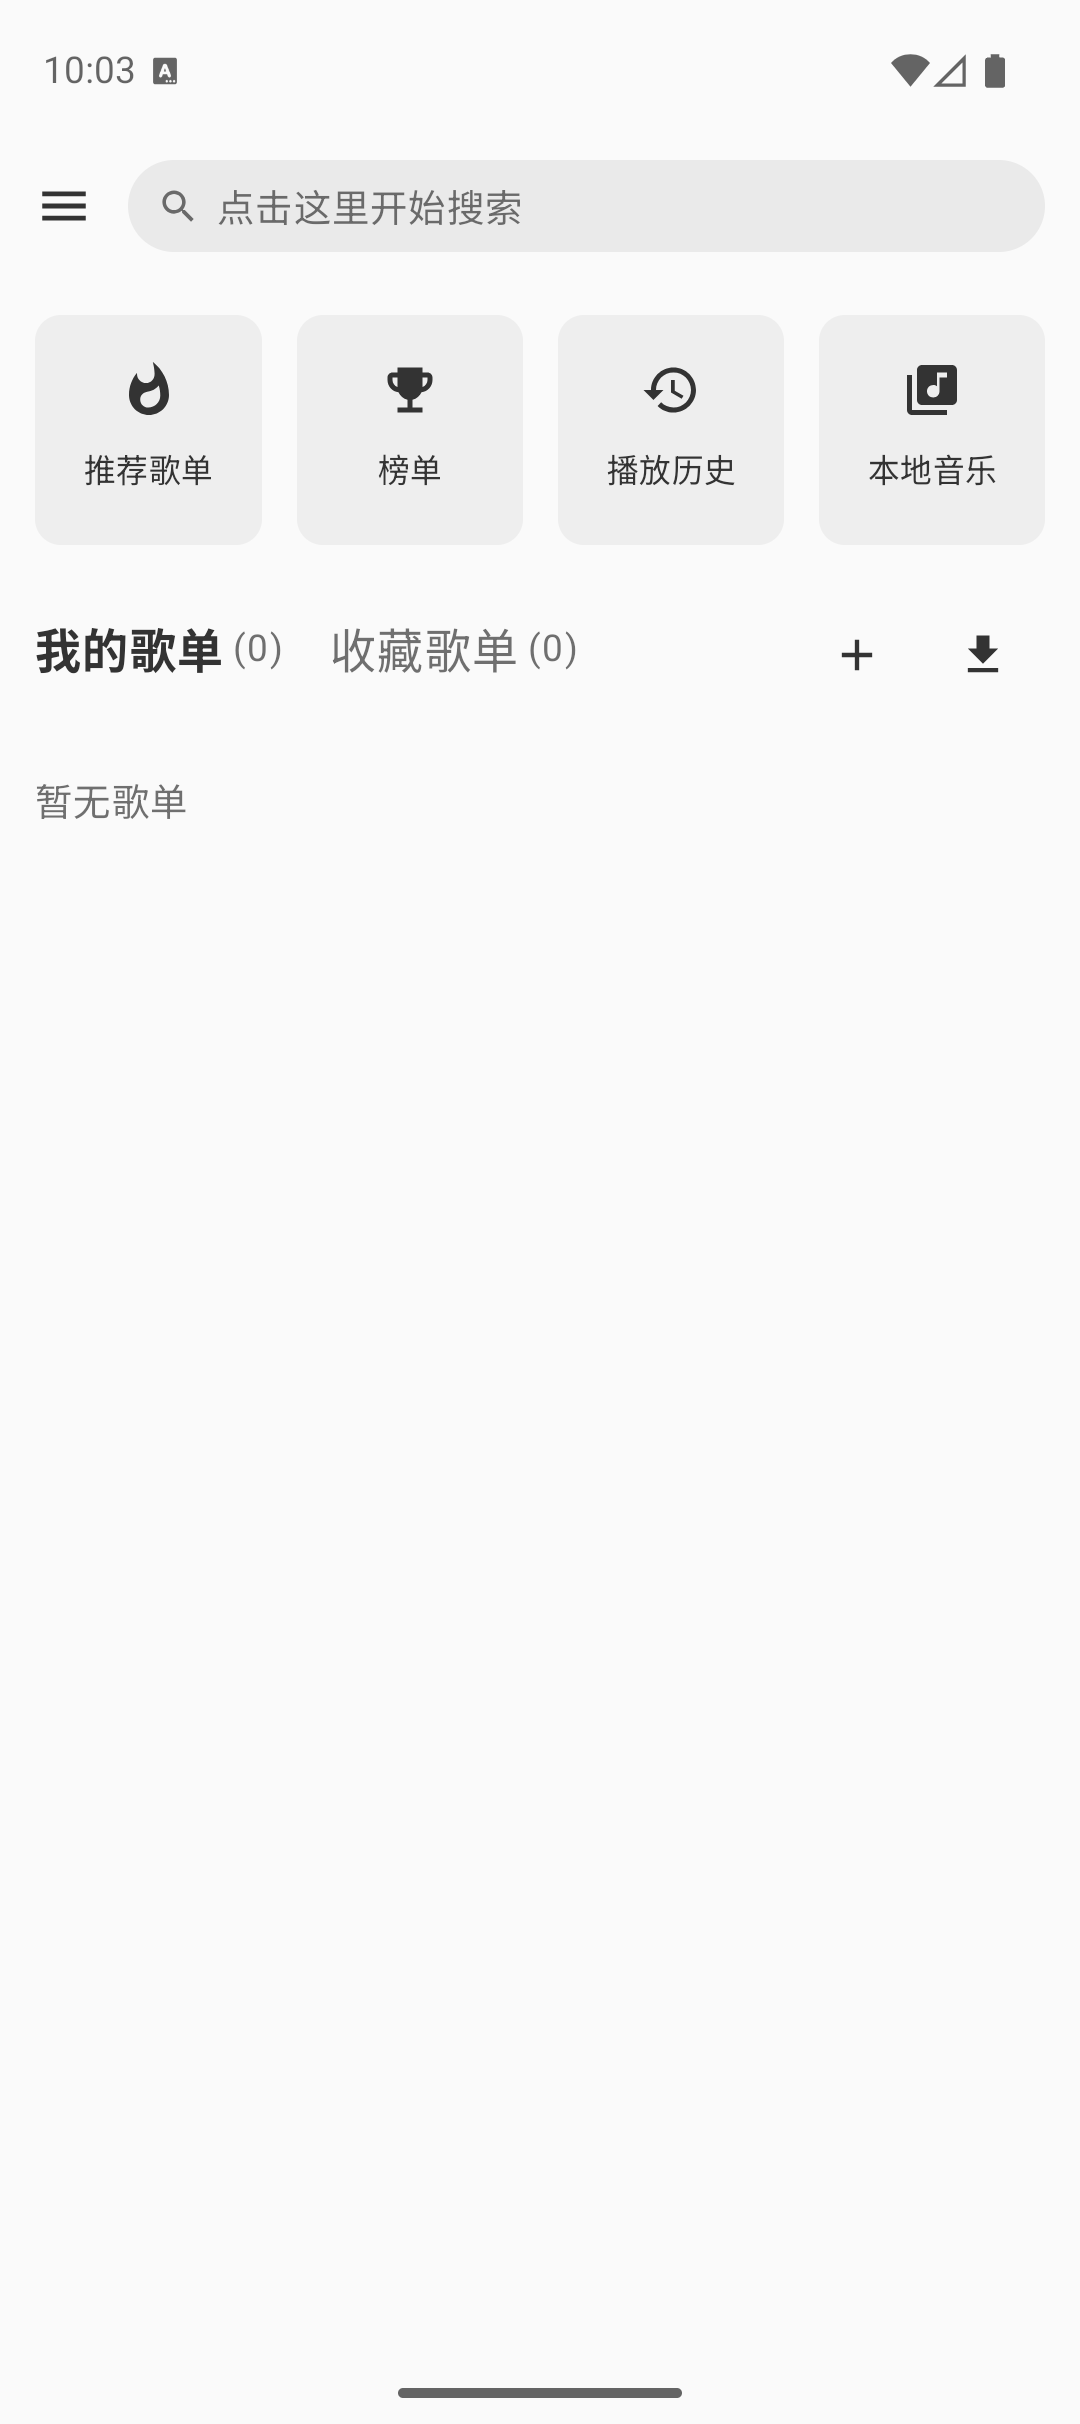
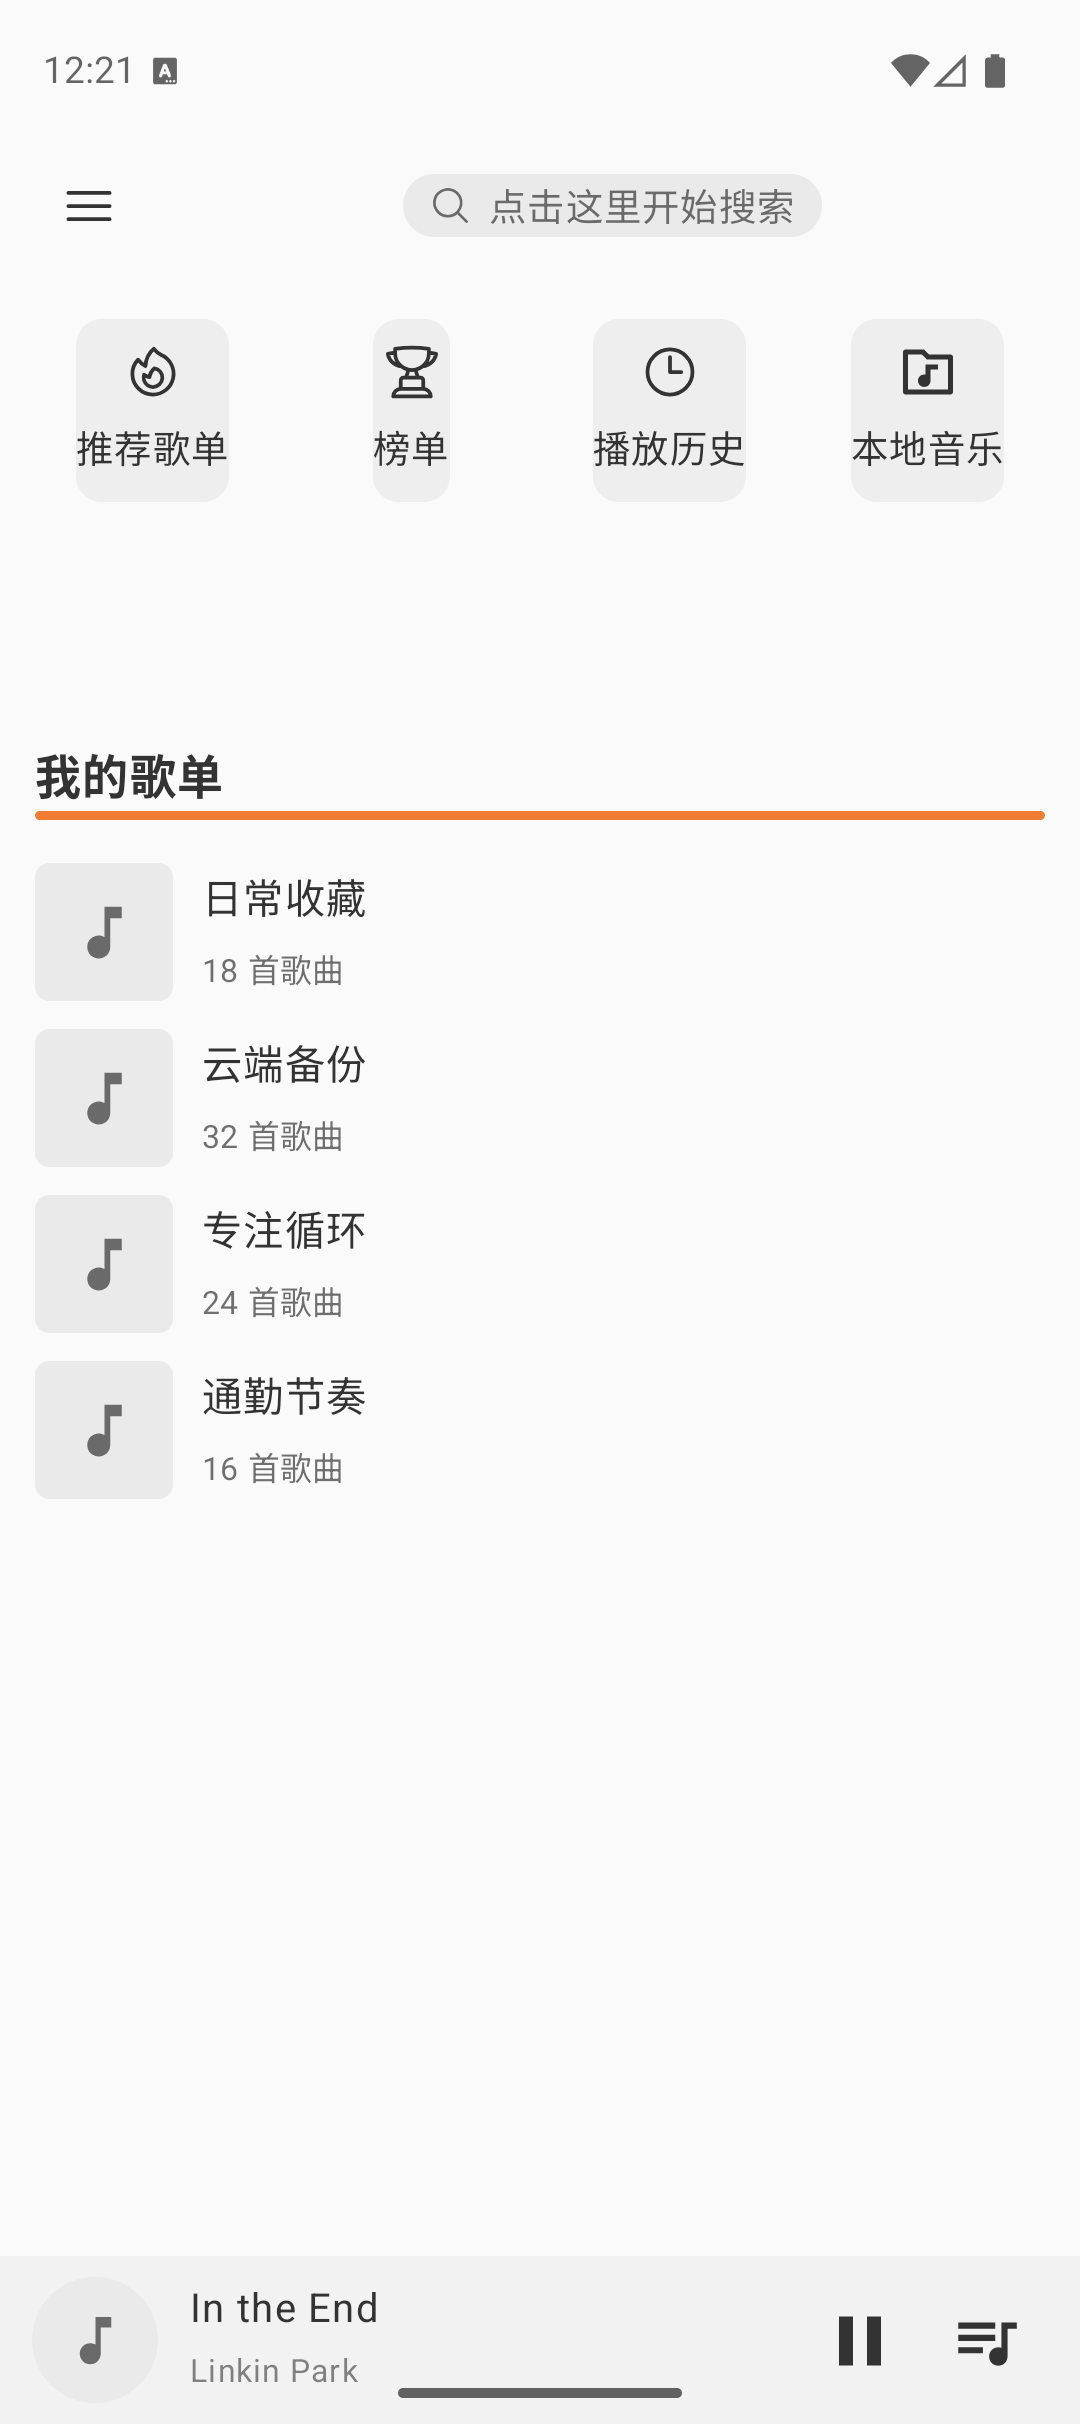
feat(app): host homepage mock mini player

diff --git a/app/src/main/java/com/zili/android/musicfreeandroid/MainActivity.kt b/app/src/main/java/com/zili/android/musicfreeandroid/MainActivity.kt
@@ -13,7 +13,10 @@ import androidx.compose.foundation.layout.safeDrawing
 import androidx.compose.foundation.layout.windowInsetsPadding
 import androidx.compose.material3.Scaffold
 import androidx.compose.runtime.getValue
+import androidx.compose.runtime.mutableStateOf
 import androidx.compose.runtime.remember
+import androidx.compose.runtime.saveable.rememberSaveable
+import androidx.compose.runtime.setValue
 import androidx.compose.ui.Modifier
 import androidx.navigation.compose.currentBackStackEntryAsState
 import androidx.navigation.compose.rememberNavController
@@ -21,6 +24,8 @@ import com.zili.android.musicfreeandroid.core.navigation.HomeRoute
 import com.zili.android.musicfreeandroid.core.navigation.PlayerRoute
 import com.zili.android.musicfreeandroid.core.theme.MusicFreeTheme
 import com.zili.android.musicfreeandroid.feature.playerui.component.MiniPlayer
+import com.zili.android.musicfreeandroid.feature.playerui.component.MiniPlayerContent
+import com.zili.android.musicfreeandroid.feature.playerui.component.MiniPlayerUiModel
 import com.zili.android.musicfreeandroid.navigation.AndroidHomeSystemActionHandler
 import com.zili.android.musicfreeandroid.navigation.AppNavHost
 import com.zili.android.musicfreeandroid.player.controller.PlayerController
@@ -48,10 +53,13 @@ class MainActivity : ComponentActivity() {
                 val currentRoute = currentBackStack?.destination?.route
                 val playerRouteName = PlayerRoute::class.simpleName.orEmpty()
                 val homeRouteName = HomeRoute::class.simpleName.orEmpty()
+                var isHomeMockPlaying by rememberSaveable { mutableStateOf(true) }
 
-                val showMiniPlayer = currentRoute != null &&
+                val isHomeRoute = currentRoute?.contains(homeRouteName) == true
+                val showRealMiniPlayer = currentRoute != null &&
+                    !isHomeRoute &&
                     !currentRoute.contains(playerRouteName)
-                val applyHomeTopSafeInset = currentRoute?.contains(homeRouteName) == true
+                val applyHomeTopSafeInset = isHomeRoute
 
                 Scaffold(
                     modifier = Modifier.fillMaxSize(),
@@ -59,12 +67,29 @@ class MainActivity : ComponentActivity() {
                         WindowInsetsSides.Horizontal + WindowInsetsSides.Bottom,
                     ),
                     bottomBar = {
-                        if (showMiniPlayer) {
-                            MiniPlayer(
-                                onNavigateToPlayer = {
-                                    navController.navigate(PlayerRoute)
+                        when {
+                            isHomeRoute -> MiniPlayerContent(
+                                uiModel = MiniPlayerUiModel(
+                                    coverUri = null,
+                                    title = "In the End",
+                                    subtitle = "Linkin Park",
+                                    isPlaying = isHomeMockPlaying,
+                                    showQueueButton = true,
+                                ),
+                                onOpenPlayer = {},
+                                onTogglePlayPause = {
+                                    isHomeMockPlaying = !isHomeMockPlaying
                                 },
+                                onOpenQueue = {},
                             )
+
+                            showRealMiniPlayer -> {
+                                MiniPlayer(
+                                    onNavigateToPlayer = {
+                                        navController.navigate(PlayerRoute)
+                                    },
+                                )
+                            }
                         }
                     },
                 ) { innerPadding ->

diff --git a/app/src/androidTest/java/com/zili/android/musicfreeandroid/HomeDrawerBehaviorTest.kt b/app/src/androidTest/java/com/zili/android/musicfreeandroid/HomeDrawerBehaviorTest.kt
@@ -15,7 +15,8 @@ import com.zili.android.musicfreeandroid.feature.home.HomeScreenContent
 import com.zili.android.musicfreeandroid.feature.home.HomeScreenState
 import com.zili.android.musicfreeandroid.feature.home.HomeSystemActionHandler
 import com.zili.android.musicfreeandroid.feature.home.buildHomeDrawerUiModel
-import com.zili.android.musicfreeandroid.feature.home.sheets.HomeSheetsUiState
+import com.zili.android.musicfreeandroid.feature.home.buildHomeVisualUiModel
+import com.zili.android.musicfreeandroid.feature.home.sheets.HomeSheetTab
 import org.junit.Assert.assertFalse
 import org.junit.Assert.assertTrue
 import org.junit.Before
@@ -41,7 +42,7 @@ class HomeDrawerBehaviorTest {
             MusicFreeTheme {
                 HomeScreenContent(
                     state = state,
-                    sheetsUiState = HomeSheetsUiState(),
+                    visualUiModel = buildHomeVisualUiModel(selectedTab = HomeSheetTab.Mine),
                     drawerUiModel = buildHomeDrawerUiModel(
                         currentLanguage = "中文",
                         currentVersion = "1.0.0-test",
@@ -63,8 +64,8 @@ class HomeDrawerBehaviorTest {
                     onNavigateToHistory = {},
                     onNavigateToLocal = {},
                     onSelectTab = {},
-                    onCreateSheet = {},
-                    onImportSheet = {},
+                    onCreateClick = {},
+                    onImportClick = {},
                     onOpenMineSheet = {},
                     onOpenStarredSheet = {},
                 )

diff --git a/app/src/androidTest/java/com/zili/android/musicfreeandroid/HomeFidelityHomeStructureTest.kt b/app/src/androidTest/java/com/zili/android/musicfreeandroid/HomeFidelityHomeStructureTest.kt
@@ -41,6 +41,9 @@ class HomeFidelityHomeStructureTest {
         assertTagDisplayed(FidelityAnchors.Home.NavBarMenu)
         assertTagDisplayed(FidelityAnchors.Home.OperationsRoot)
         assertTagDisplayed(FidelityAnchors.Home.SheetsRoot)
+        assertTagDisplayed(FidelityAnchors.Player.MiniRoot)
+        assertTagDisplayed(FidelityAnchors.Player.MiniPlayPause)
+        assertTagDisplayed(FidelityAnchors.Player.MiniQueue)
 
         composeRule.onNodeWithTag(FidelityAnchors.Home.NavBarMenu).performClick()
 
@@ -51,6 +54,9 @@ class HomeFidelityHomeStructureTest {
     fun home_content_remains_visible_above_existingMiniPlayer() {
         assertTagDisplayed(FidelityAnchors.Screen.HomeRoot)
         assertTagDisplayed(FidelityAnchors.Home.SheetsRoot)
+        assertTagDisplayed(FidelityAnchors.Player.MiniRoot)
+        assertTagDisplayed(FidelityAnchors.Player.MiniPlayPause)
+        assertTagDisplayed(FidelityAnchors.Player.MiniQueue)
     }
 
     private fun assertTagDisplayed(tag: String) {